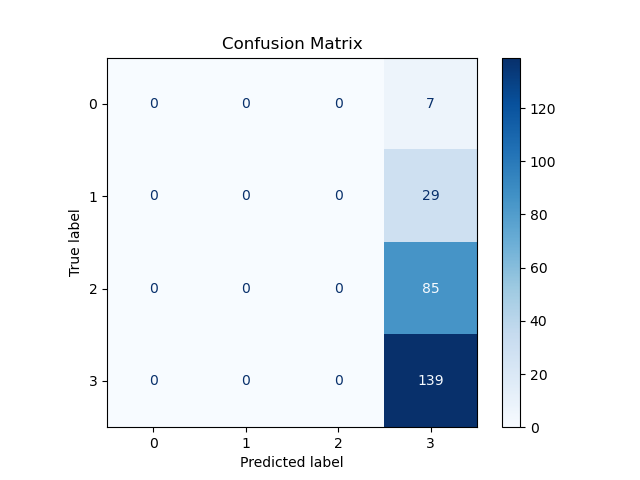
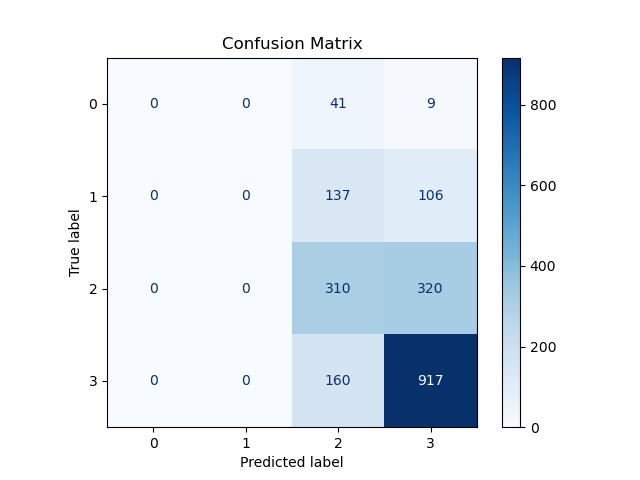
3d-future

diff --git a/models-3d.future.dataset/meshnet/train.py b/models-3d.future.dataset/meshnet/train.py
@@ -4,7 +4,10 @@ import numpy as np
 import torch
 import torch.nn as nn
 import torch.optim as optim
-from sklearn.metrics import accuracy_score, confusion_matrix, ConfusionMatrixDisplay, precision_score, recall_score, f1_score, roc_auc_score, log_loss
+from sklearn.metrics import (
+    accuracy_score, confusion_matrix, ConfusionMatrixDisplay, precision_score,
+    recall_score, f1_score, roc_auc_score, log_loss
+)
 from sklearn.model_selection import train_test_split
 from tqdm import tqdm
 from torch.utils.data import DataLoader, Dataset
@@ -26,6 +29,38 @@ config = {
     "device": 'cuda' if torch.cuda.is_available() else 'cpu',
     "conf_matrix_path": "confusion_matrix.png",
 }
+
+# Early Stopping
+class EarlyStopping:
+    def __init__(self, patience=10, delta=0, path="checkpoint.pt", verbose=False):
+        self.patience = patience
+        self.delta = delta
+        self.path = path
+        self.verbose = verbose
+        self.counter = 0
+        self.best_loss = None
+        self.early_stop = False
+
+    def __call__(self, val_loss, model):
+        if self.best_loss is None:
+            self.best_loss = val_loss
+            self.save_checkpoint(model)
+        elif val_loss > self.best_loss - self.delta:
+            self.counter += 1
+            if self.verbose:
+                print(f"EarlyStopping counter: {self.counter}/{self.patience}")
+            if self.counter >= self.patience:
+                self.early_stop = True
+        else:
+            self.best_loss = val_loss
+            self.save_checkpoint(model)
+            self.counter = 0
+
+    def save_checkpoint(self, model):
+        """Save model when validation loss improves."""
+        if self.verbose:
+            print("Validation loss improved. Saving model...")
+        torch.save(model.state_dict(), self.path)
 
 # Data Augmentation
 def augment_mesh(vertices, normals):
@@ -119,6 +154,9 @@ criterion = nn.CrossEntropyLoss()
 optimizer = optim.AdamW(model.parameters(), lr=config["learning_rate"], weight_decay=config["weight_decay"])
 scheduler = optim.lr_scheduler.CosineAnnealingWarmRestarts(optimizer, T_0=10, T_mult=2)
 
+# Early Stopping
+early_stopping = EarlyStopping(patience=10, delta=0.01, path="best_model.pt", verbose=True)
+
 # Training Loop
 for epoch in range(config["num_epochs"]):
     model.train()
@@ -137,7 +175,16 @@ for epoch in range(config["num_epochs"]):
         running_loss += loss.item()
 
     scheduler.step()
-    print(f"Epoch {epoch+1}, Loss: {running_loss/len(train_loader):.4f}")
+    val_loss = running_loss / len(train_loader)
+    print(f"Epoch {epoch+1}, Validation Loss: {val_loss:.4f}")
+
+    early_stopping(val_loss, model)
+    if early_stopping.early_stop:
+        print("Early stopping triggered. Training halted.")
+        break
+
+# Load Best Model
+model.load_state_dict(torch.load("best_model.pt"))
 
 # Evaluation
 model.eval()
@@ -176,6 +223,7 @@ print(f"Log Loss: {logloss:.4f}")
 
 # Confusion Matrix
 conf_matrix = confusion_matrix(y_true, y_pred)
+print("Confusion Matrix:\n", conf_matrix)
 disp = ConfusionMatrixDisplay(confusion_matrix=conf_matrix)
 disp.plot(cmap=plt.cm.Blues)
 plt.title("Confusion Matrix")
